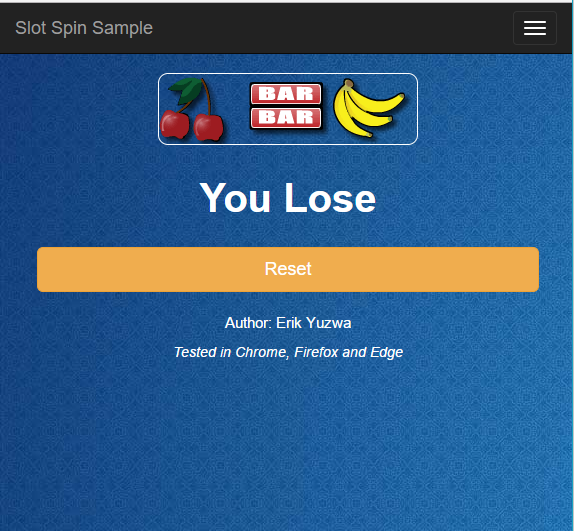
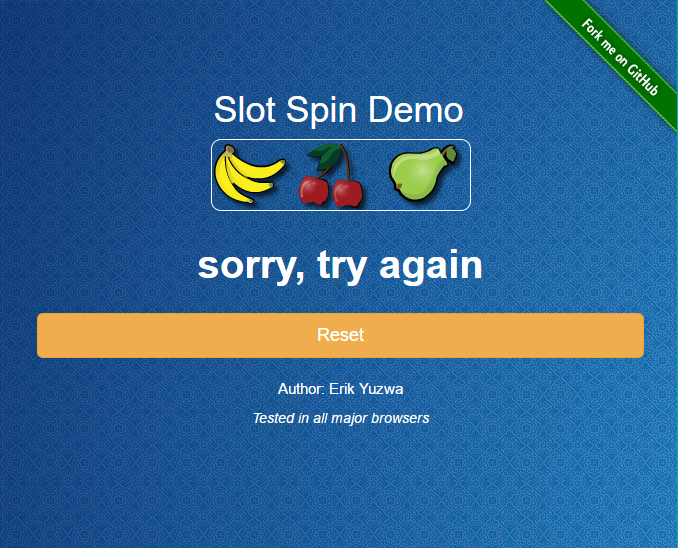
updated with github link and remove navbar

diff --git a/src/main.scss b/src/main.scss
@@ -25,6 +25,12 @@ body {
 .main-container {
 	margin-top: 50px;
 
+	header {
+		h1 {
+			color: #ffffff;
+		}
+	}
+
 	.slots-wrapper {
 		border: 1px solid #ffffff;
 		border-radius: 10px;
